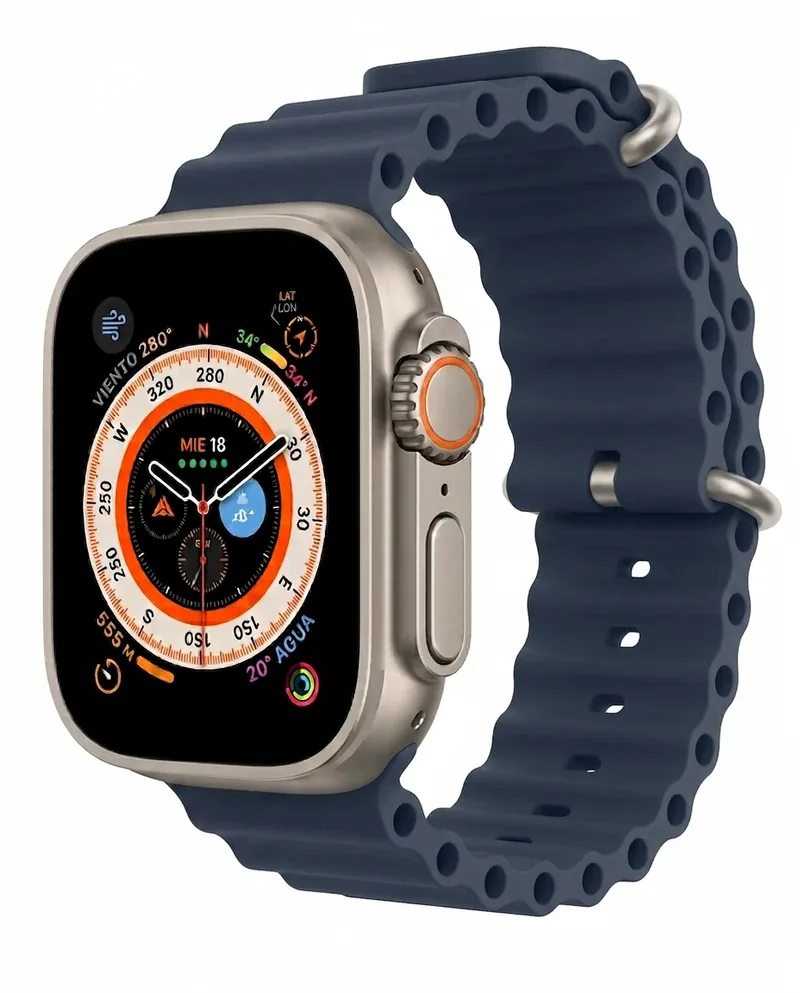
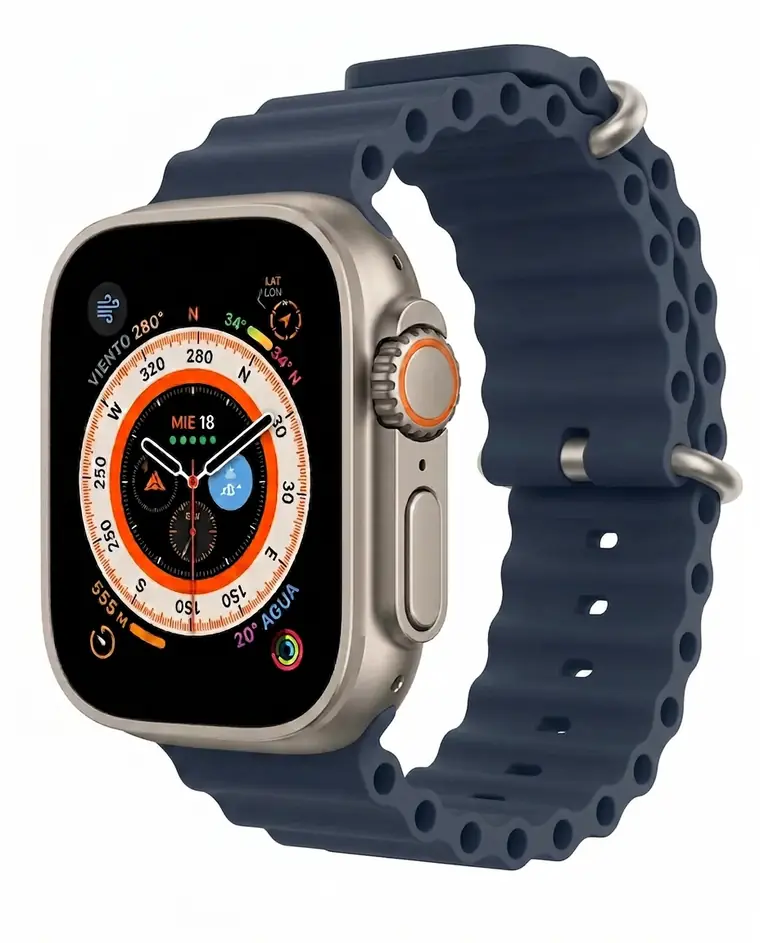
Las 4 fotos del reloj, 30 por ciento mas ligeras (v47)
Eran las unicas que seguian saliendo en blanco al deslizar rapido en la
primera carga: pesaban de 43 a 51 KB, como el triple que las demas, por
el detalle de la caratula. Regeneradas a 760 px y calidad 72 quedan de
31 a 36 KB. Comparadas lado a lado no se nota diferencia.

diff --git a/sw.js b/sw.js
@@ -10,7 +10,7 @@
 // así borrar la versión vieja que sí servía. Ahora los archivos ESENCIALES se
 // guardan con addAll (todos o falla la instalación, y se queda la versión
 // anterior funcionando) y solo DESPUÉS se borra la versión vieja.
-const CACHE = "mte-notas-v46";
+const CACHE = "mte-notas-v47";
 
 // Sin estos la app no abre: si alguno no se puede guardar (mala señal al
 // instalar), la instalación falla a propósito y NO se rompe la versión previa.
